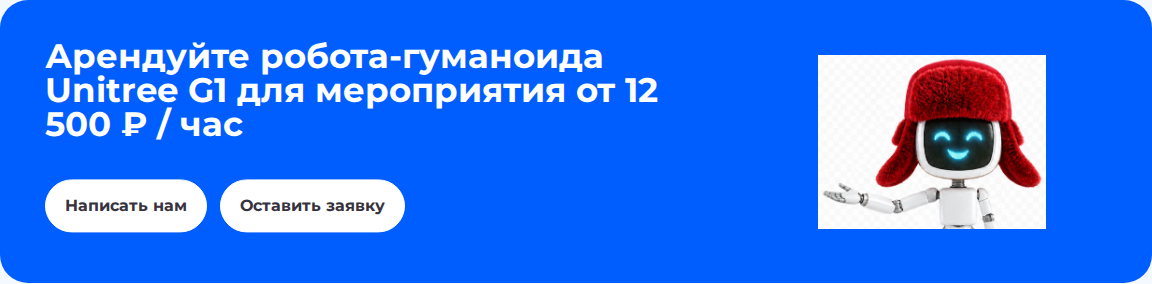
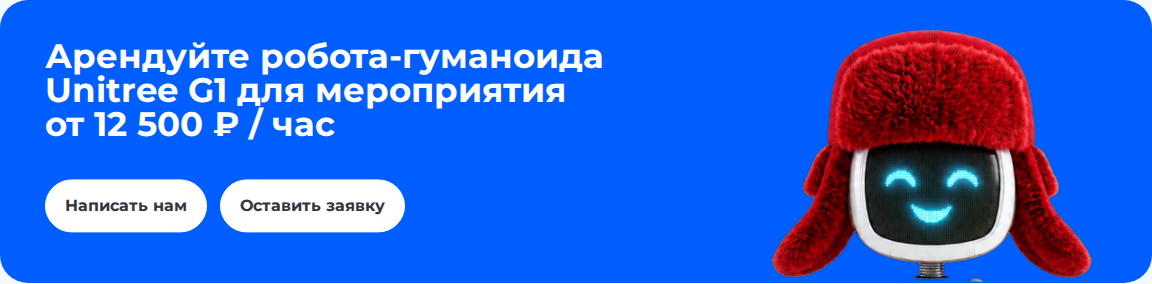
fix(kiber-94): keep CTA price and Gosha clean

diff --git a/tests/visual/kiber94-robot-card-preview.test.ts b/tests/visual/kiber94-robot-card-preview.test.ts
@@ -206,6 +206,8 @@ test('KIBER-94 Unitree G1 quote-to-CTA owner feedback uses compact CTA #1 with l
   const smoke = readFileSync(smokePath, 'utf8');
 
   assert.match(componentSource, /quickCtaTitle = `Арендуйте \$\{robotTypeAccusative\} \$\{template\.robot\.name\} для мероприятия \$\{template\.robot\.priceDisplay\}`/);
+  assert.match(componentSource, /const quickCtaNoWrap = template\.robot\.priceDisplay/);
+  assert.match(componentSource, /titleNoWrap: quickCtaNoWrap/);
   assert.match(componentSource, /const robotQuickCtaImage = \{[\s\S]*src: '\/images\/kiber-94-preview\/gosha-ushanka-cta1\.webp'/);
   assert.match(componentSource, /alt: 'Кибер Гоша в красной ушанке приглашает арендовать Unitree G1'/);
   assert.match(componentSource, /const robotQuickCta = \{[\s\S]*image: robotQuickCtaImage/);
@@ -220,9 +222,12 @@ test('KIBER-94 Unitree G1 quote-to-CTA owner feedback uses compact CTA #1 with l
   assert.match(componentSource, /\.template-reused-block--quick-cta :global\(\.home-final-cta__actions\) \{[\s\S]*margin-top:\s*1\.45rem/);
   assert.match(componentSource, /\.template-reused-block--quick-cta :global\(\.home-final-cta__image\) \{[\s\S]*align-self:\s*center/);
   assert.match(componentSource, /\.template-reused-block--quick-cta :global\(\.home-final-cta__image\) \{[\s\S]*height:\s*clamp\(7rem,\s*15\.2vw,\s*12\.1rem\)/);
-  assert.match(componentSource, /\.template-reused-block--quick-cta :global\(\.home-final-cta__image img\) \{[\s\S]*height:\s*calc\(clamp\(7rem,\s*15\.2vw,\s*12\.1rem\) \* \.9\)/);
+  assert.match(componentSource, /\.template-reused-block--quick-cta :global\(\.home-final-cta__image\) \{[\s\S]*overflow:\s*visible/);
+  assert.match(componentSource, /\.template-reused-block--quick-cta :global\(\.home-final-cta__image img\) \{[\s\S]*height:\s*clamp\(14rem,\s*20vw,\s*15\.95rem\)/);
+  assert.match(componentSource, /\.template-reused-block--quick-cta :global\(\.home-final-cta__image img\) \{[\s\S]*transform:\s*translateY\(-1\.15rem\)/);
   assert.match(componentSource, /\.template-reused-block--quick-cta :global\(\.home-final-cta__image img\) \{[\s\S]*width:\s*auto/);
-  assert.match(smoke, /compact CTA #1 price/);
+  assert.match(smoke, /compact CTA #1 price must stay unbroken on one line/);
+  assert.match(smoke, /home-final-cta__title-nowrap/);
   assert.match(smoke, /CTA #1 owner image/);
 });
 

diff --git a/src/data/home-live.ts b/src/data/home-live.ts
@@ -6,7 +6,14 @@ export type HomeGoshaData = { title: string; subtitle: string; text: string; ima
 export type HomeCard = { title: string; description: string; href: string; cta?: string; image: HomeImage };
 export type HomeCardsBlock = { title: string; description: string; cards: HomeCard[] };
 export type HomeFaqData = { title: string; items: { question: string; answer: string }[] };
-export type HomeFinalCtaData = { title: string; description: string; primaryCta: HomeLink; secondaryCta: HomeLink; image: HomeImage };
+export type HomeFinalCtaData = {
+  title: string;
+  titleNoWrap?: string;
+  description: string;
+  primaryCta: HomeLink;
+  secondaryCta: HomeLink;
+  image: HomeImage;
+};
 
 const imageMap: Record<string, string> = {
   '/images/tild3632-3236-4238-b335-623531393036__hi.png': '/images/home-live/tild3632-3236-4238-b335-623531393036-hi.webp',
